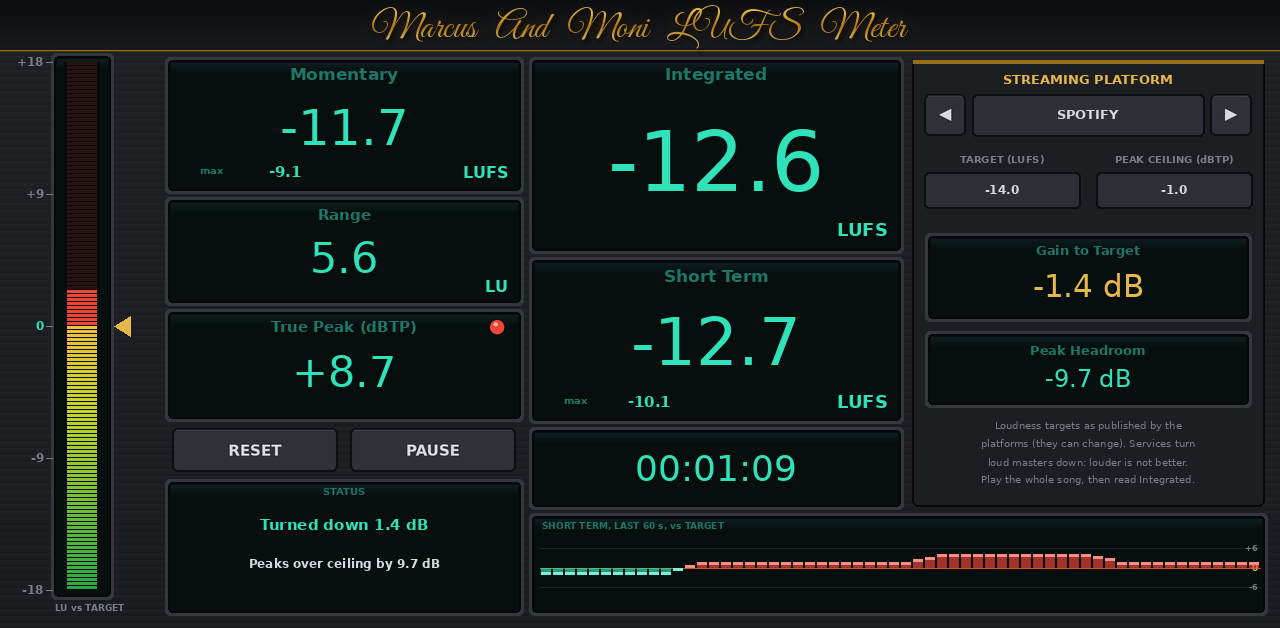
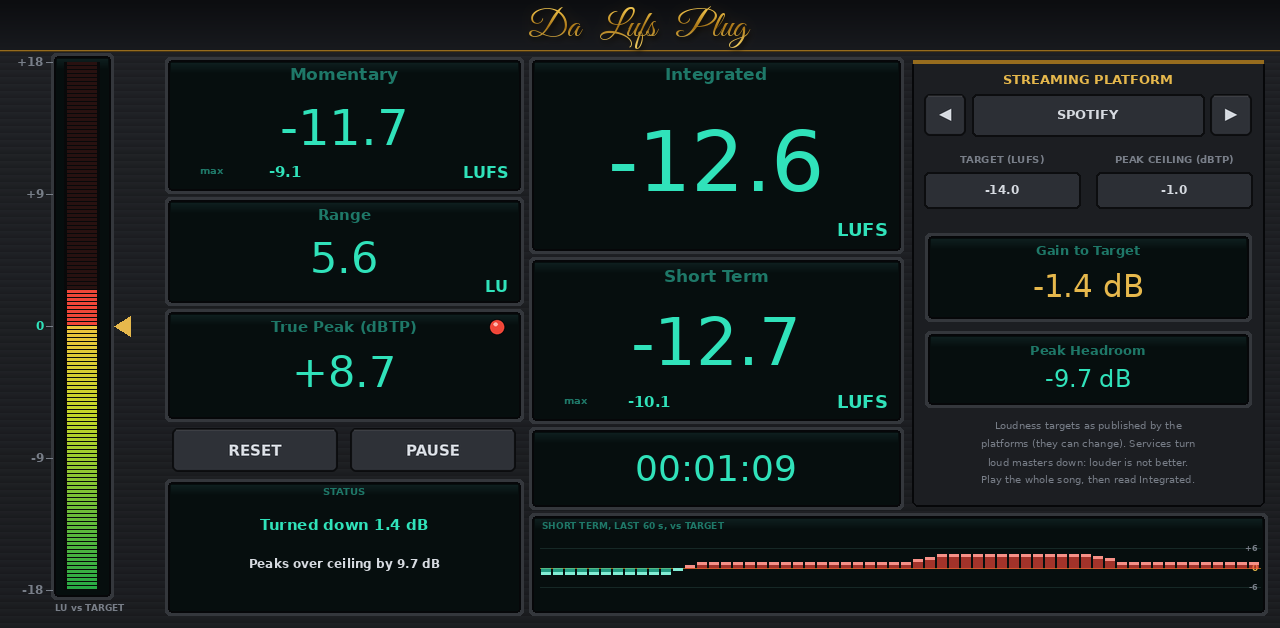
LUFS meter 1.0.1: skin title 'Da Lufs Plug'
Claude-Session: https://claude.ai/code/session_01XRqyjua6wzinB9NqNDDbhg

Changed region(s): [[0.2812, 0.0, 0.7188, 0.0908]]

diff --git a/LUFS-MPC/src/lufsmeter.cpp b/LUFS-MPC/src/lufsmeter.cpp
@@ -357,7 +357,7 @@ intptr_t dispatcher (AEffect* e, int32_t op, int32_t idx, intptr_t val, void* pt
         case effGetEffectName:
         case effGetProductString: copyStr (ptr, "RadioReady LUFS Meter", 32); return 1;
         case effGetVendorString:  copyStr (ptr, "RadioReady Audio", 32); return 1;
-        case effGetVendorVersion: return 1000;
+        case effGetVendorVersion: return 1001;
         case effGetPlugCategory:  return kPlugCategEffect;
         case effGetVstVersion:    return 2400;
         case effSetProcessPrecision: return val == 0 ? 1 : 0;
@@ -390,6 +390,6 @@ LM_EXPORT AEffect* VSTPluginMain (audioMasterCallback master)
     fx.ioRatio = 1.f;
     fx.object = p;
     fx.uniqueID = ('R' << 24) | ('R' << 16) | ('L' << 8) | 'M';   // 'RRLM' = 0x52524c4d
-    fx.version = 1000;
+    fx.version = 1001;
     return &fx;
 }

diff --git a/LUFS-MPC/tools/make_skin.py b/LUFS-MPC/tools/make_skin.py
@@ -21,8 +21,8 @@ SKIN_DIR = os.path.join(ROOT, "mpc", "skin", "RadioReady Audio - VST - RadioRead
 OUT = os.path.join(SKIN_DIR, "Plugin Skins")
 W, H = 1280, 628
 FRAMES, NUMFRAMES, SS = 128, 127, 3
-VERSION = "1.0.0.0"
-TITLE = "Marcus And Moni LUFS Meter"
+VERSION = "1.0.1.0"
+TITLE = "Da Lufs Plug"
 TITLE_H = 50
 SCRIPT_FONTS = [os.path.join(ROOT, "tools", "fonts", n) for n in ("GreatVibes-Regular.woff", "GreatVibes-Regular.ttf")]
 FONT_DIRS = ["/usr/share/fonts/truetype/dejavu", "/usr/share/fonts/dejavu", "/Library/Fonts", "C:/Windows/Fonts"]

diff --git a/LUFS-MPC/mpc/INSTALL.md b/LUFS-MPC/mpc/INSTALL.md
@@ -1,18 +1,18 @@
-# RadioReady LUFS Meter 1.0.0
+# RadioReady LUFS Meter 1.0.1
 
 A loudness meter for MPC, in the style of classic hardware loudness meters. It shows Momentary, Short Term,
 Integrated, Loudness Range, True Peak and elapsed time, and has presets for streaming platforms (Spotify, Apple Music,
 YouTube and more). It's a native MPC OS VST2 insert effect. In the plugin browser it's **RadioReady LUFS Meter** by
-**RadioReady Audio**, and the screen's gold title reads **Marcus And Moni LUFS Meter**. Audio passes through untouched.
+**RadioReady Audio**, and the screen's gold title reads **Da Lufs Plug**. Audio passes through untouched.
 
 ## Requirements
 - A first-generation MPC OS standalone device (32-bit ARM: MPC X, Live / Live II, One, Key 61, Force).
 - **Root shell access** (SSH). Installing plugins this way is unofficial, so back up first and use it at your own risk.
 
 ## Install with Terminus
-1. Upload `RadioReadyLUFS-1.0.0-mpc-armv7.zip` to `/tmp` on the MPC (SFTP).
+1. Upload `RadioReadyLUFS-1.0.1-mpc-armv7.zip` to `/tmp` on the MPC (SFTP).
 2. Save your MPC project, then run:
-   `cd /tmp && unzip -o RadioReadyLUFS-1.0.0-mpc-armv7.zip && sh RadioReadyLUFS-1.0.0/install.sh`
+   `cd /tmp && unzip -o RadioReadyLUFS-1.0.1-mpc-armv7.zip && sh RadioReadyLUFS-1.0.1/install.sh`
 3. Answer `y`. MPC restarts. Add **RadioReady LUFS Meter** as the **last insert on the master**, after your limiter,
    so it measures what listeners will hear.
 
@@ -66,7 +66,7 @@ below the ceiling, and a negative value means your peaks are over it.
 1 Platform, 2 Target, 3 Peak Ceiling, 4 Pause.
 
 ## Uninstall
-`sh /tmp/RadioReadyLUFS-1.0.0/uninstall.sh` (unzip the package to `/tmp` again first).
+`sh /tmp/RadioReadyLUFS-1.0.1/uninstall.sh` (unzip the package to `/tmp` again first).
 
 ## Troubleshooting
 - **Not in the plugin list:** it appears after MPC restarts. Check with

diff --git a/LUFS-MPC/README.md b/LUFS-MPC/README.md
@@ -25,7 +25,7 @@ Install and usage: [mpc/INSTALL.md](mpc/INSTALL.md). Design notes: [docs/DESIGN.
 ```
 make test                  # native build + offline VST2 host test
 make arm                   # build/arm/radioready_lufs.so (needs g++-arm-linux-gnueabihf), or: make docker
-./scripts/package.sh       # dist/RadioReadyLUFS-1.0.0-mpc-armv7.zip
+./scripts/package.sh       # dist/RadioReadyLUFS-1.0.1-mpc-armv7.zip
 ./scripts/deploy.sh <ip>   # copy + install over SSH
 python3 tools/make_skin.py docs   # regenerate the skin (+ preview rendered from build/native)
 ```
